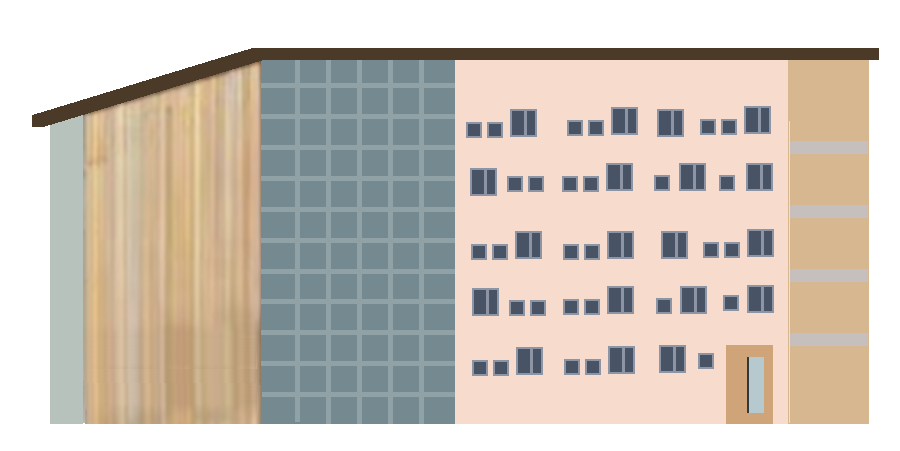
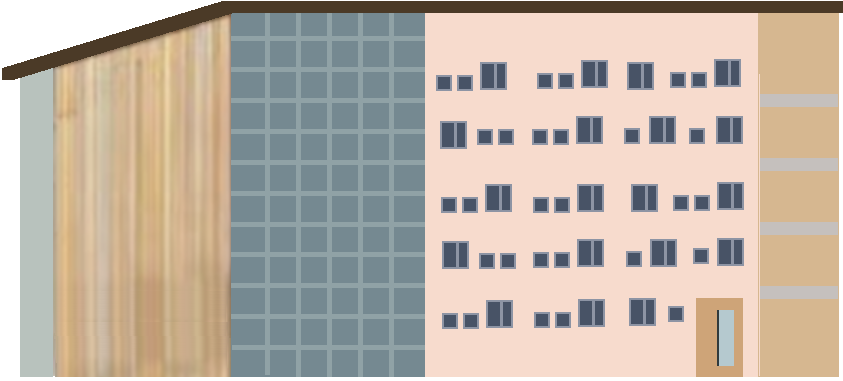
Fixed sprites but screen only a fixed size
Fixed sprites but screen only a fixed size

diff --git a/core/src/com/mygdx/game/systems/SystemCollision.java b/core/src/com/mygdx/game/systems/SystemCollision.java
@@ -48,44 +48,45 @@ public class SystemCollision {
 
         ComponentPosition playerPosition = (ComponentPosition) playerEntity.getComponent(ComponentPosition.class);
 
+
         // These are the four edges of the collision object.
-        float collisionLeft = collisionPosition.getX() - collisionPosition.getWidth() / 2;
-        float collisionRight = collisionPosition.getX() + collisionPosition.getWidth() / 2;
-        float collisionTop = collisionPosition.getY() + collisionPosition.getHeight() / 2;
-        float collisionBottom = collisionPosition.getY() - collisionPosition.getHeight() / 2;
+        double collisionLeft = collisionPosition.getRawX();
+        double collisionRight = collisionPosition.getRawX() + collisionPosition.getRawWidth();
+        double collisionTop = collisionPosition.getRawY() + collisionPosition.getRawHeight();
+        double collisionBottom = collisionPosition.getRawY();
 
         // These are the four edges of the player.
-        float playerLeft = playerPosition.getX() - playerPosition.getWidth() / 2;
-        float playerRight = playerPosition.getX() + playerPosition.getWidth() / 2;
-        float playerTop = playerPosition.getY() + playerPosition.getHeight() / 2;
-        float playerBottom = playerPosition.getY() - playerPosition.getHeight() / 2;
+        double playerLeft = playerPosition.getRawX();
+        double playerRight = playerPosition.getRawX() + playerPosition.getRawWidth();
+        double playerTop = playerPosition.getRawY() + playerPosition.getRawHeight();
+        double playerBottom = playerPosition.getRawY();
 
         // These gap values are positive if they overlap, meaning if all of them
         // are positive there is a collision, and the smallest value indicates the
         // direction to push the player in to correct the collision.
-        float leftGap =  playerRight - collisionLeft;
-        float rightGap = collisionRight - playerLeft;
-        float topGap = collisionTop - playerBottom;
-        float bottomGap = playerTop - collisionBottom;
+        double leftGap =  playerRight - collisionLeft;
+        double rightGap = collisionRight - playerLeft;
+        double topGap = collisionTop - playerBottom;
+        double bottomGap = playerTop - collisionBottom;
 
         // Checks if all values are positive, which indicates a collision.
         if (leftGap > 0 && rightGap > 0 && topGap > 0 && bottomGap > 0) {
 
             // Finds the direction with the shortest value
-            float leftRightMin = Math.min(leftGap, rightGap);
-            float topBottomMin = Math.min(topGap, bottomGap);
-            float directionValue = Math.min(leftRightMin, topBottomMin);
+            double leftRightMin = Math.min(leftGap, rightGap);
+            double topBottomMin = Math.min(topGap, bottomGap);
+            double directionValue = Math.min(leftRightMin, topBottomMin);
 
             // Moves the player, so it's no longer colliding with the
             // object in the shortest direction.
             if (directionValue == leftGap) {
-                playerPosition.setX(collisionLeft - playerPosition.getWidth()/2);
+                playerPosition.setX(collisionLeft - playerPosition.getRawWidth());
             } else if (directionValue == rightGap) {
-                playerPosition.setX(collisionRight + playerPosition.getWidth()/2);
+                playerPosition.setX(collisionRight);
             } else if (directionValue == topGap) {
-                playerPosition.setY(collisionTop + playerPosition.getHeight() / 2);
+                playerPosition.setY(collisionTop);
             } else if (directionValue == bottomGap) {
-                playerPosition.setY(collisionBottom - playerPosition.getHeight() / 2);
+                playerPosition.setY(collisionBottom - playerPosition.getRawHeight());
             }
 
 

diff --git a/core/src/com/mygdx/game/systems/SystemRender.java b/core/src/com/mygdx/game/systems/SystemRender.java
@@ -44,30 +44,30 @@ public class SystemRender {
                 if(entity.hasComponent(ComponentPlayerFlag.class)){
                     // Updates the camera's position to be over the centre of the player
                     ComponentPosition player = (ComponentPosition) entity.getComponent(ComponentPosition.class);
-                    camera.position.set(player.getX() + player.getWidth() / 2, player.getY() + player.getHeight() / 2, 0);
+                    camera.position.set((float) Gdx.graphics.getWidth() /2, (float) Gdx.graphics.getHeight() /2, 0);
                     camera.update();
-                    float targetX = player.getX();
-                    float targetY = player.getY();
+                    float targetX = (float) player.getX();
+                    float targetY = (float) player.getY();
 
-                    // Check if player is past the center of the window
-                    if (player.getX() < (Gdx.graphics.getWidth() / 2f)) {
-                        // If the camera can follow without leaving the bounds of the game world, set the player as center
-                        targetX = Gdx.graphics.getWidth() / 2f;
-                    }
-                    if (player.getX() > (6750 - (Gdx.graphics.getWidth()/ 2f))){
-                        targetX = 6750 - (Gdx.graphics.getWidth() / 2f);
-                    }
-                    if (player.getY() < (Gdx.graphics.getHeight() / 2f)) {
-                        targetY = Gdx.graphics.getHeight() / 2f;
-                    }
-                    if (player.getY() > (4267 - (Gdx.graphics.getHeight() / 2f))) {
-                        targetY = 4267 - (Gdx.graphics.getHeight() / 2f);
-                    }
+//                    // Check if player is past the center of the window
+//                    if (player.getX() < (Gdx.graphics.getWidth() / 2f)) {
+//                        // If the camera can follow without leaving the bounds of the game world, set the player as center
+//                        targetX = Gdx.graphics.getWidth() / 2f;
+//                    }
+//                    if (player.getX() > (6750 - (Gdx.graphics.getWidth()/ 2f))){
+//                        targetX = 6750 - (Gdx.graphics.getWidth() / 2f);
+//                    }
+//                    if (player.getY() < (Gdx.graphics.getHeight() / 2f)) {
+//                        targetY = Gdx.graphics.getHeight() / 2f;
+//                    }
+//                    if (player.getY() > (4267 - (Gdx.graphics.getHeight() / 2f))) {
+//                        targetY = 4267 - (Gdx.graphics.getHeight() / 2f);
+//                    }
 
                     // Interpolate camera position for smooth movement
 //                    camera.position.lerp(new Vector3(targetX, targetY, 0), 0.5f);
-                    camera.position.set(targetX, targetY, 0);
-                    camera.update();
+//                    camera.position.set(targetX, targetY, 0);
+//                    camera.update();
 
                 }
             }
@@ -120,7 +120,7 @@ public class SystemRender {
         //Draws in each entity's Sprite at its coordinates
         batch.setProjectionMatrix(camera.combined); //tells the SpriteBatch to use the coordinate system specified by the camera
         batch.begin();
-        batch.draw(sprite.getSprite(), object.getX(), object.getY());
+        batch.draw(sprite.getSprite(), (float) (object.getX()), (float) (object.getY()), (float) (object.getWidth()), (float) (object.getHeight()));
         batch.end();
 
         if (isPlayer){

diff --git a/core/src/com/mygdx/game/components/ComponentPosition.java b/core/src/com/mygdx/game/components/ComponentPosition.java
@@ -1,47 +1,53 @@
 package com.mygdx.game.components;
 
+import com.badlogic.gdx.Gdx;
+
 public class ComponentPosition extends Component{
 
     // Contains all the variables which determine the size
     // and position of an object..
 
-    float x;
-    float y;
-    float height;
-    float width;
+    double x;
+    double y;
+    double height;
+    double width;
 
-    public ComponentPosition(float x, float y, float height, float width) {
+    public ComponentPosition(double x, double y, double height, double width) {
         this.x = x;
         this.y = y;
         this.height = height;
         this.width = width;
     }
 
-    public float getX(){
-        return x;
+    public double getX(){
+        return x* Gdx.graphics.getWidth();
     }
-    public void setX(float x){
+    public double getRawX(){return x;}
+    public void setX(double x){
         this.x = x;
     }
 
-    public float getY(){
-        return y;
+    public double getY(){
+        return y*Gdx.graphics.getHeight();
     }
-    public void setY(float y){
+    public double getRawY(){return y;}
+    public void setY(double y){
         this.y = y;
     }
 
-    public float getHeight(){
-        return height;
+    public double getHeight(){
+        return height*Gdx.graphics.getHeight();
     }
-    public void setHeight(float height){
+    public double getRawHeight(){return height;}
+    public void setHeight(double height){
         this.height = height;
     }
 
-    public float getWidth(){
-        return width;
+    public double getWidth(){
+        return width*Gdx.graphics.getWidth();
     }
-    public void setWidth(float width){
+    public double getRawWidth(){return width;};
+    public void setWidth(double width){
         this.width = width;
     }
 }

diff --git a/core/src/com/mygdx/game/systems/SystemUpdatePositionByVelocity.java b/core/src/com/mygdx/game/systems/SystemUpdatePositionByVelocity.java
@@ -26,16 +26,16 @@ public class SystemUpdatePositionByVelocity {
                 ComponentVelocity velocity = (ComponentVelocity) entity.getComponent(ComponentVelocity.class);
 
                 // We check the player is within bounds before changing position.
-                if ((-1000<position.getX() || velocity.getXSpeed()>0) &&
-                        (position.getX()<(6759 - position.getWidth())||velocity.getXSpeed()<0)) {
+//                if ((-1000<position.getX() || velocity.getXSpeed()>0) &&
+//                        (position.getX()<(6759 - position.getWidth())||velocity.getXSpeed()<0)) {
                     // We use deltaTime to avoid speed being tied to frame rate (which
                     // can vary from computer to computer).
-                    position.setX(position.getX() +velocity.getXSpeed() * Gdx.graphics.getDeltaTime());
-                }
-                if ((-1000<position.getY() || velocity.getYSpeed()>0) &&
-                        (position.getY()<(4265 - position.getHeight())||velocity.getYSpeed()<0)) {
-                    position.setY(position.getY() +velocity.getYSpeed() * Gdx.graphics.getDeltaTime());
-                }
+                    position.setX(position.getRawX() +velocity.getXSpeed() * Gdx.graphics.getDeltaTime());
+//                }
+//                if ((-1000<position.getY() || velocity.getYSpeed()>0) &&
+//                        (position.getY()<(4265 - position.getHeight())||velocity.getYSpeed()<0)) {
+                    position.setY(position.getRawY() +velocity.getYSpeed() * Gdx.graphics.getDeltaTime());
+//                }
             }
         }
     }

diff --git a/core/src/com/mygdx/game/GameScreen.java b/core/src/com/mygdx/game/GameScreen.java
@@ -31,13 +31,15 @@ public class GameScreen implements Screen {
     public GameScreen(final MyGdxGame game) {
         this.game = game;
         entities = new ArrayList<>();
-        entities.add(new Map(0,0, Gdx.graphics.getHeight(), Gdx.graphics.getWidth())); //currently the map's sprite size is 3000 x 1896
+
+
+        entities.add(new Map(0,0, 1, 1)); //currently the map's sprite size is 3000 x 1896
         entities.add(new Player());
 
-        entities.add(new Library(1600, 700,50, 100));
-        entities.add(new DuckPond(2070,600, 100,100));
-        entities.add(new Piazza(3330,1500, 100,100));
-        entities.add(new Accommodation(1650,2925, 100,100));
+        entities.add(new Library(0.3, 0.3,0.2, 0.2));
+        entities.add(new DuckPond(0.5,0.6, 0.2,0.2));
+        entities.add(new Piazza(0.15,0.1, 0.1,0.2));
+        entities.add(new Accommodation(0.6,0.8, 0.1,0.1));
 
         updateInputSystem = new SystemUpdateInput();
         updateVelocityByInputSystem = new SystemUpdateVelocityByInput();
@@ -78,6 +80,8 @@ public class GameScreen implements Screen {
 
     @Override
     public void resize(int width, int height) {
+        System.out.println(width);
+        System.out.println(height);
     }
     @Override
     public void show() {

diff --git a/core/src/com/mygdx/game/entities/Accommodation.java b/core/src/com/mygdx/game/entities/Accommodation.java
@@ -9,7 +9,7 @@ import com.mygdx.game.serviceProviders.AccommodationEffectProvider;
 import java.util.HashMap;
 
 public class Accommodation extends POI{
-    public Accommodation(int x, int y, int height, int width) {
+    public Accommodation(double x, double y, double height, double width) {
         super(x,y,height,width);
         this.addComponent(new ComponentCollisionEffect(new AccommodationEffectProvider()));
         this.addComponent(new ComponentSprite(new Texture(Gdx.files.internal("accommodation.png"))));

diff --git a/core/src/com/mygdx/game/entities/Player.java b/core/src/com/mygdx/game/entities/Player.java
@@ -10,7 +10,7 @@ import java.util.HashMap;
 public class Player extends Entity {
     public Player() {
         this.components = new HashMap<>();
-        this.addComponent(new ComponentPosition(100, 100, 100, 100));
+        this.addComponent(new ComponentPosition(0, 0, 0.1, 0.1));
         this.addComponent(new ComponentPlayerFlag());
         this.addComponent(new ComponentSprite(new Texture(Gdx.files.internal("player_sprite_still.png"))));
         this.addComponent(new ComponentInput());

diff --git a/core/src/com/mygdx/game/entities/DuckPond.java b/core/src/com/mygdx/game/entities/DuckPond.java
@@ -10,7 +10,7 @@ import com.mygdx.game.serviceProviders.LibraryEffectProvider;
 import java.util.HashMap;
 
 public class DuckPond extends POI{
-    public DuckPond(int x, int y, int height, int width) {
+    public DuckPond(double x, double y, double height, double width) {
         super(x,y,height,width);
         this.addComponent(new ComponentCollisionEffect(new DuckPondEffectProvider()));
         this.addComponent(new ComponentSprite(new Texture(Gdx.files.internal("duck_pond.png"))));

diff --git a/core/src/com/mygdx/game/entities/Map.java b/core/src/com/mygdx/game/entities/Map.java
@@ -6,9 +6,9 @@ import com.mygdx.game.components.*;
 
 import java.util.HashMap;
 
-public class Map extends POI{
+public class Map extends Entity{
     public Map(int x, int y, int height, int width) {
-        super(x,y,height,width);
+        this.addComponent(new ComponentPosition(x,y,height,width));
         //this.addComponent(new ComponentCollisionEffect(new PiazzaEffectProvider()));
         this.addComponent(new ComponentSprite(new Texture(Gdx.files.internal("map.png"))));
     }

diff --git a/core/src/com/mygdx/game/entities/Library.java b/core/src/com/mygdx/game/entities/Library.java
@@ -9,7 +9,7 @@ import com.mygdx.game.serviceProviders.LibraryEffectProvider;
 import java.util.HashMap;
 
 public class Library extends POI{
-    public Library(int x, int y, int height, int width) {
+    public Library(double x, double y, double height, double width) {
         super(x,y,height,width);
         this.addComponent(new ComponentCollisionEffect(new LibraryEffectProvider()));
         this.addComponent(new ComponentSprite(new Texture(Gdx.files.internal("library.png"))));

diff --git a/core/src/com/mygdx/game/entities/Piazza.java b/core/src/com/mygdx/game/entities/Piazza.java
@@ -9,7 +9,7 @@ import com.mygdx.game.serviceProviders.PiazzaEffectProvider;
 import java.util.HashMap;
 
 public class Piazza extends POI{
-    public Piazza(int x, int y, int height, int width) {
+    public Piazza(double x, double y, double height, double width) {
         super(x,y,height,width);
         this.addComponent(new ComponentCollisionEffect(new PiazzaEffectProvider()));
         this.addComponent(new ComponentSprite(new Texture(Gdx.files.internal("piazza.png"))));

diff --git a/core/src/com/mygdx/game/systems/SystemUpdateVelocityByInput.java b/core/src/com/mygdx/game/systems/SystemUpdateVelocityByInput.java
@@ -31,7 +31,7 @@ public class SystemUpdateVelocityByInput {
                 boolean up = keysPressed.contains("UP");
                 boolean down = keysPressed.contains("DOWN");
                 // Speed increment determines the speed of the player.
-                int speedIncrement = 200;
+                double speedIncrement = 0.15;
                 float newXSpeed = 0;
                 float newYSpeed = 0;
                 if(left){
